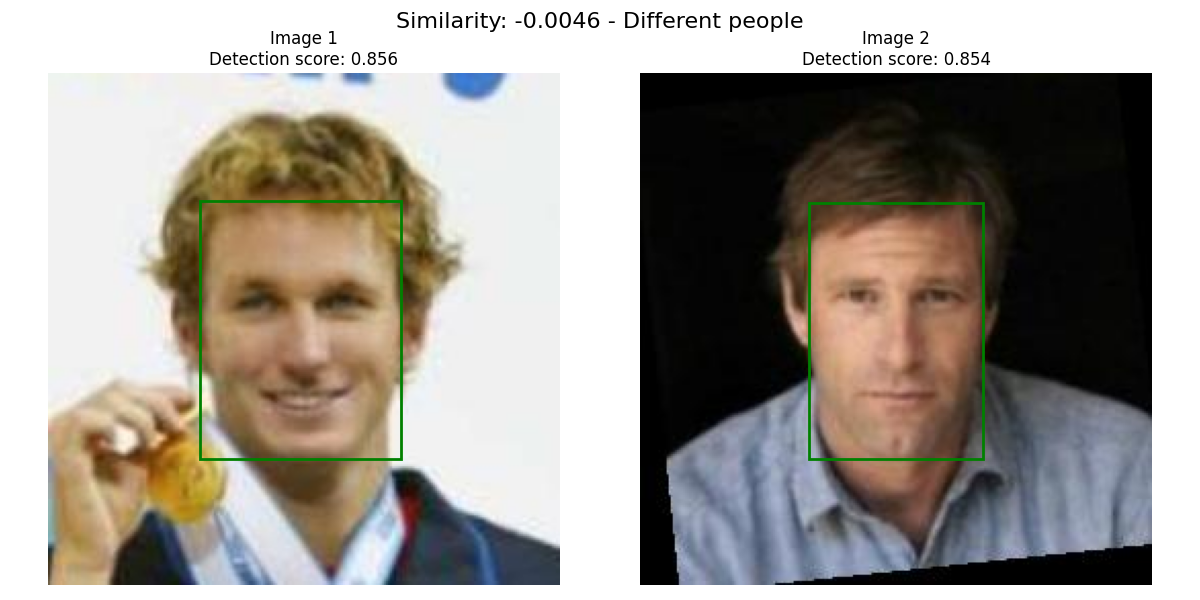
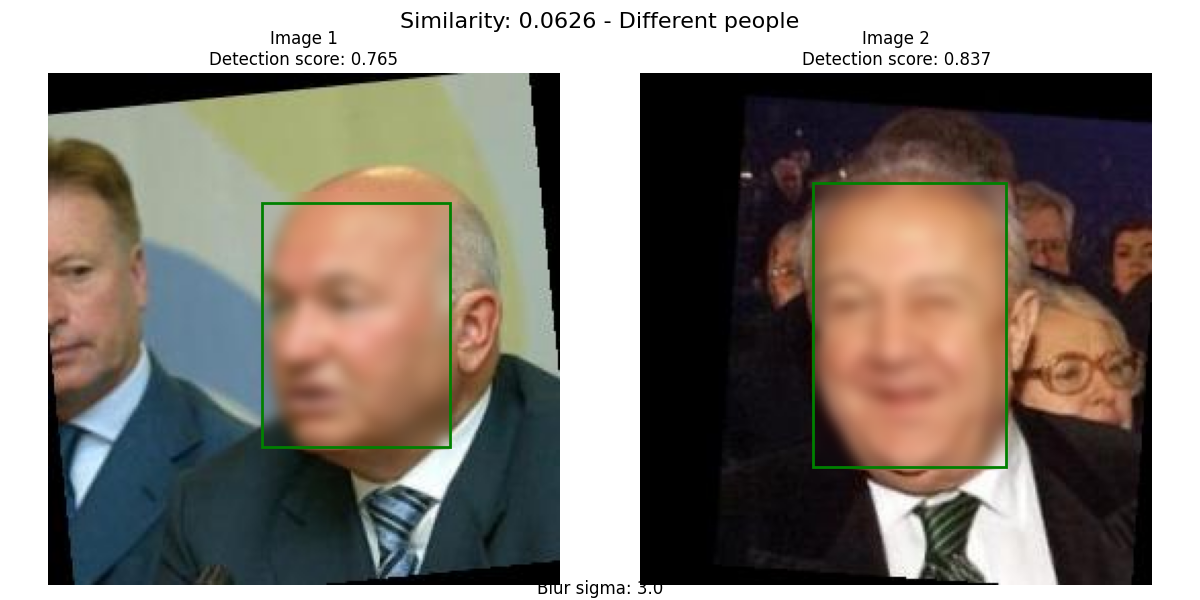
IT WORKS now do it 100 times

diff --git a/arcface_finfin.py b/arcface_finfin.py
@@ -74,31 +74,56 @@ class FaceVerifier:
         
         return embedding, bbox, face.det_score
     
+    def blur_face_region(self, img, bbox, sigma=3):
+        """Blur a face region in an image"""
+
+        # Make a copy to avoid modifying the original
+        result = img.copy()
+        
+        # Extract face coordinates
+        x1, y1, x2, y2 = [int(coord) for coord in bbox]
+        
+        # Extract the face region
+        face_region = result[y1:y2, x1:x2]
+        
+        # Apply Gaussian blur
+        blurred_face = cv2.GaussianBlur(face_region, (0, 0), sigma)
+        
+        # Replace the region in the original image
+        result[y1:y2, x1:x2] = blurred_face
+        
+        return result
+
     def load_and_process_image(self, img_path, blur_sigma=None):
-        """Load an image, apply blur if needed, and return it"""
-        # Load the image
-        img = Image.open(img_path).convert('RGB')
+        """Load an image, detect face, apply blur if needed, and return it"""
+        # Load the image with PIL
+        pil_img = Image.open(img_path).convert('RGB')
+        
+        # Convert to numpy array for processing
+        img = np.array(pil_img)
+        img = cv2.cvtColor(img, cv2.COLOR_RGB2BGR)
         
         # Apply blur if specified
         if blur_sigma is not None and blur_sigma > 0:
-            img = blur_face(img, blur_sigma)
+            # Detect face first
+            faces = self.app.get(img)
+            if len(faces) > 0:
+                # Get the face with the highest detection score
+                face = max(faces, key=lambda x: x.det_score)
+                # Apply blur to the face region
+                img = self.blur_face_region(img, face.bbox, blur_sigma)
         
         return img
-    
+
     def compare_faces(self, img_path1, img_path2, blur_sigma=None):
         """Compare two face images and return similarity score"""
         # Load and process images
         img1 = self.load_and_process_image(img_path1, blur_sigma)
         img2 = self.load_and_process_image(img_path2, blur_sigma)
         
-        img1_np = np.array(img1)
-        img2_np = np.array(img2)
-        img1_np = cv2.cvtColor(img1_np, cv2.COLOR_RGB2BGR)
-        img2_np = cv2.cvtColor(img2_np, cv2.COLOR_RGB2BGR)
-        
         # Get embeddings
-        result1 = self.get_face_embedding(img1_np)
-        result2 = self.get_face_embedding(img2_np)
+        result1 = self.get_face_embedding(img1)
+        result2 = self.get_face_embedding(img2)
         
         if result1 is None or result2 is None:
             print("Face detection failed on one or both images")
@@ -110,8 +135,8 @@ class FaceVerifier:
         # Calculate similarity
         similarity = self.cosine_similarity(embedding1, embedding2)
         
-        return similarity, (img1_np, bbox1), (img2_np, bbox2), (score1, score2)
-    
+        return similarity, (img1, bbox1), (img2, bbox2), (score1, score2)
+
     def compare_blur_levels(self, img_path1, img_path2, blur_levels=[0, 1, 3, 5, 7, 10]):
         """Compare face verification results at different blur levels"""
         results = []
